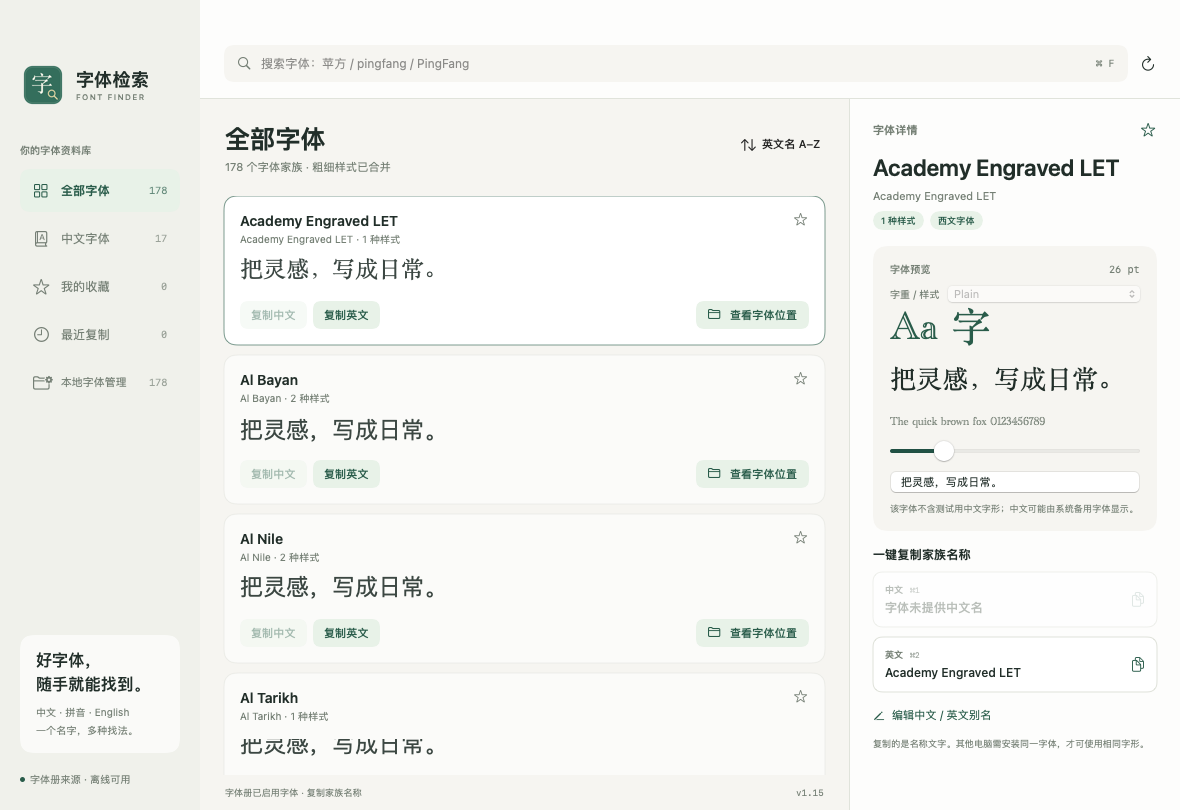
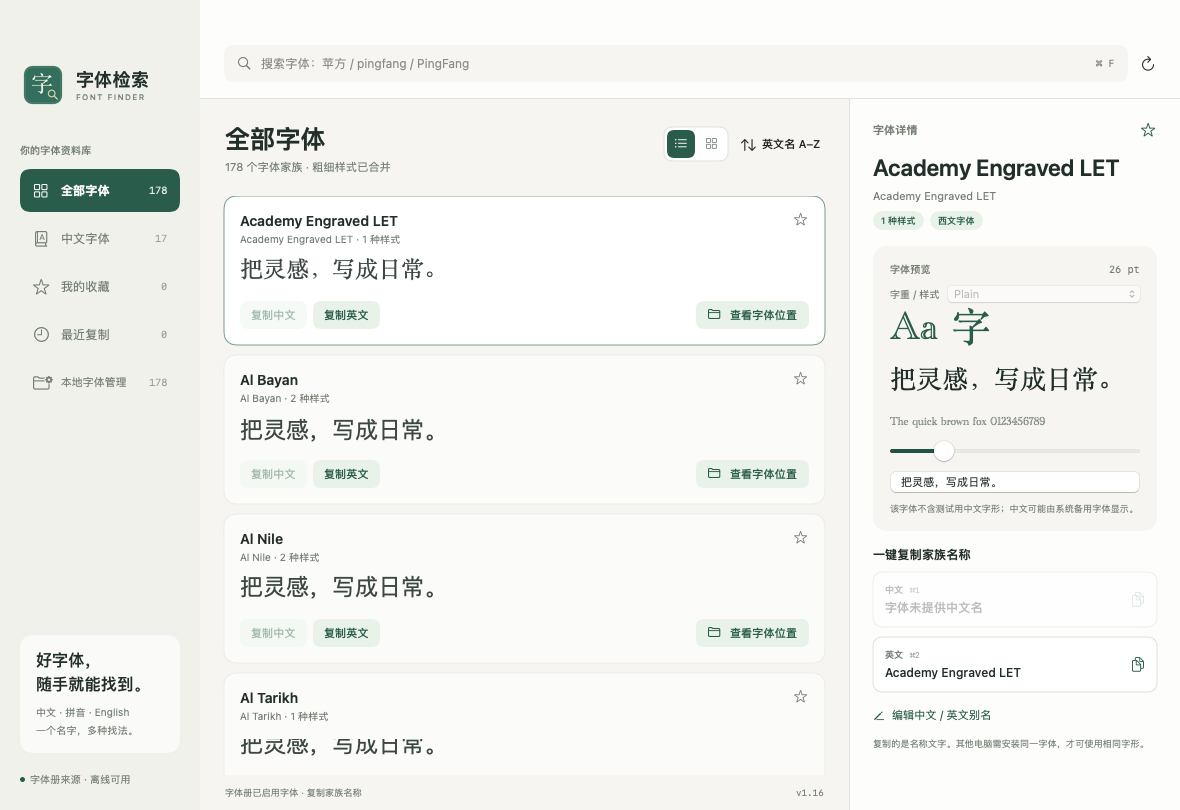
Keep multiple grid columns at the minimum window width and record visual verification

Changed region(s): [[0.0, 0.1852, 0.1525, 0.2778], [0.5492, 0.1543, 0.6102, 0.216]]

diff --git a/Source/ContentView.swift b/Source/ContentView.swift
@@ -188,7 +188,7 @@ struct ContentView: View {
             } else {
                 ScrollView {
                     if showsGrid {
-                        LazyVGrid(columns: [GridItem(.adaptive(minimum: 260), spacing: 14)], spacing: 14) {
+                        LazyVGrid(columns: [GridItem(.adaptive(minimum: 220), spacing: 14)], spacing: 14) {
                             ForEach(model.visible) { font in FontRow(model: model, font: font, grid: true) }
                         }.padding(.horizontal, 24).padding(.bottom, 24)
                     } else {

diff --git a/documentation/v1.16-validation.md b/documentation/v1.16-validation.md
@@ -1,0 +1,12 @@
+# v1.16 分类高亮与网格显示
+
+日期：2026-11-05；版本 1.16、构建 17。
+
+- 左侧五个分类共用深绿色选中背景，文字、图标为白色，选中数量提高不透明度；未修改其他区域的浅绿色色板。
+- 「全部字体」增加列表/网格切换，使用本机偏好设置记住选择。默认保留列表；两种布局读取相同的搜索和排序结果，不修改当前选中字体、收藏或复制行为。其他分类保持原显示方式。
+- 网格按可用宽度排列，保留右侧详情及字重预览。卡片可复制中文或英文名称、收藏，以及定位字体文件；西文字体显示英文示例以便比较字形。
+- [预发布构建](https://github.com/sudazz777/ZiTiJianSuo/actions/runs/41950910734) 成功，来源 `93da2b5`。本机功能 84 项、更新 46 项、字体管理 29 项、安装 31 项、焦点 13 项、历史 GitHub 模块 61 项全部通过；DMG 挂载、布局、Applications 复制、代码签名和 Universal 架构验证通过。
+- 已查看真实应用的网格截图：默认窗口显示两列，右侧详情和卡片操作保留，侧栏选中项清晰可见。切换按钮交互和偏好设置未新增自动化 GUI 测试，使用 SwiftUI 的原生按钮与 AppStorage。
+- 实际运行环境为 macOS 14 Apple 芯片；未验证所有 macOS 版本和 Intel 实机。仅在 GitHub Releases 发布，保留拖拽 DMG 和软件内自动更新；应用仍采用 ad-hoc 签名，未完成 Developer ID 签名或 Apple 公证。
+
+![全部字体网格](assets/app-grid-preview.png)
